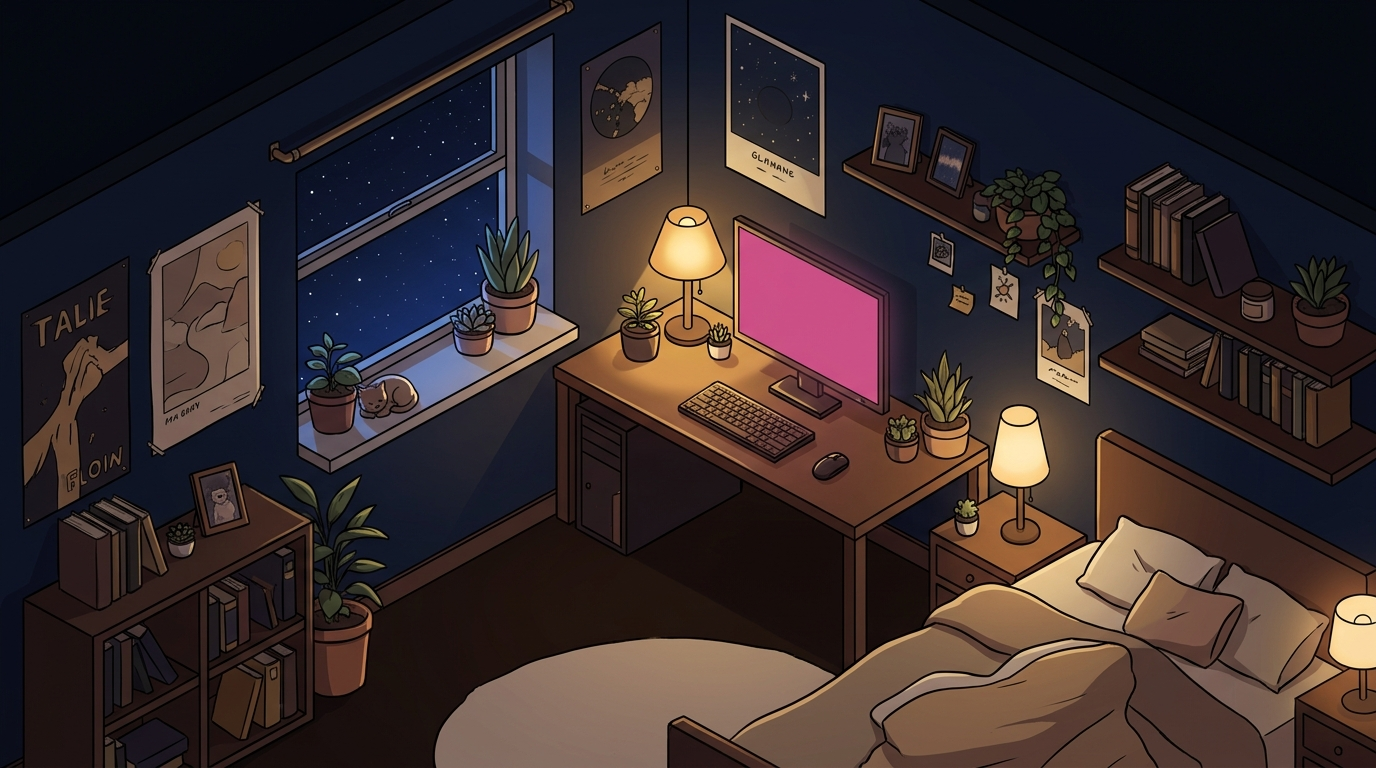
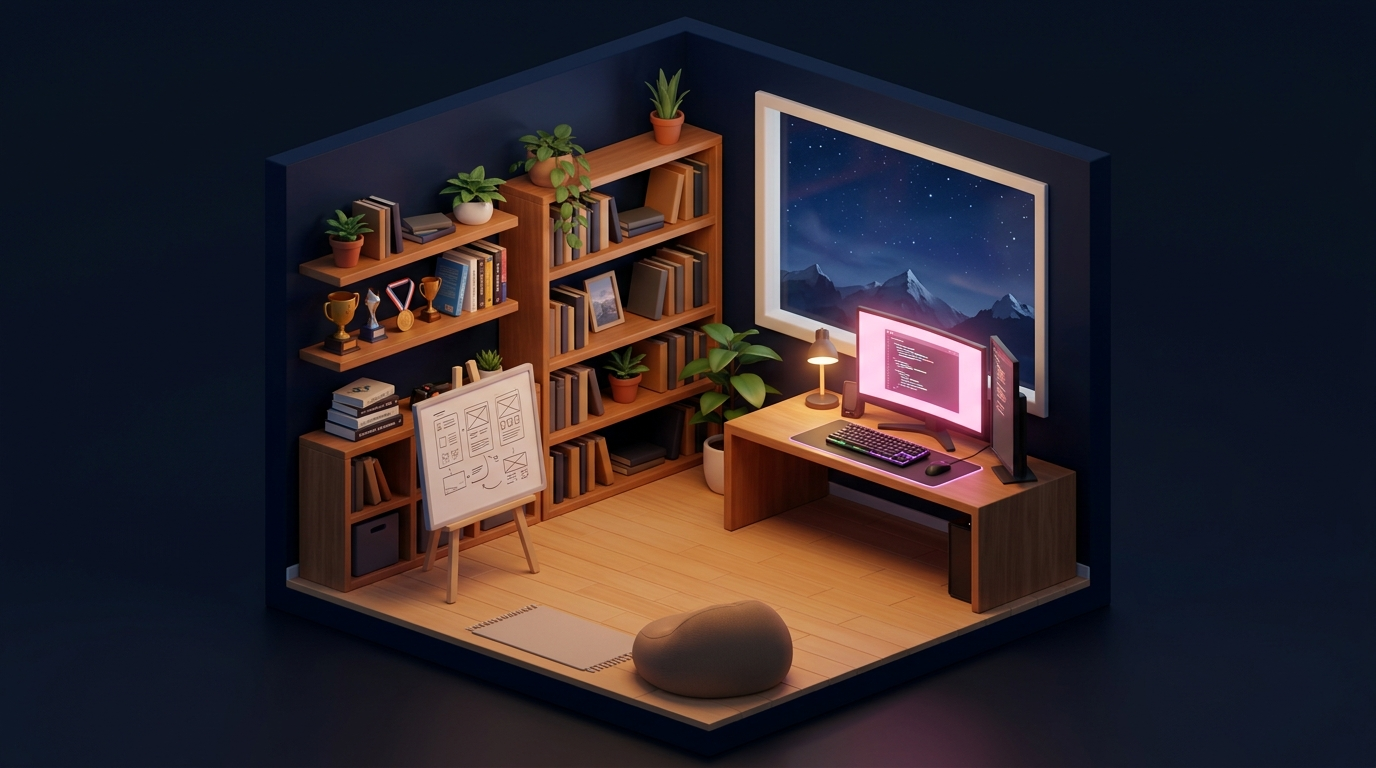
Enhance UI: Replace hero room image with personalized render, fix ChapterText layout overlap

diff --git a/src/scene/scene.css b/src/scene/scene.css
@@ -232,7 +232,7 @@
   position: absolute;
   left: var(--pad);
   top: 50%;
-  width: min(44vw, 600px);
+  width: min(40vw, 500px); /* Reduced width to prevent overlap */
   opacity: 0;
   pointer-events: none;
   will-change: transform, opacity;
@@ -240,7 +240,7 @@
 }
 
 .chapter--wide {
-  width: min(54vw, 760px);
+  width: min(50vw, 700px);
 }
 
 .chapter__label {
@@ -252,16 +252,16 @@
   font-family: var(--prose);
   font-style: italic;
   font-weight: 400;
-  font-size: clamp(2.6rem, 6vw, 5.4rem);
-  line-height: 1;
+  font-size: clamp(2.2rem, 4vw, 3.8rem); /* Reduced from 5.4rem max */
+  line-height: 1.1;
   letter-spacing: -0.015em;
-  margin: 14px 0 22px;
+  margin: 12px 0 20px;
 }
 
 .chapter__body {
   font-family: var(--prose);
-  font-size: var(--fs-body);
-  line-height: 1.62;
+  font-size: clamp(1rem, 1.2vw, 1.1rem);
+  line-height: 1.6;
   color: rgba(243, 234, 217, 0.92);
 }
 
